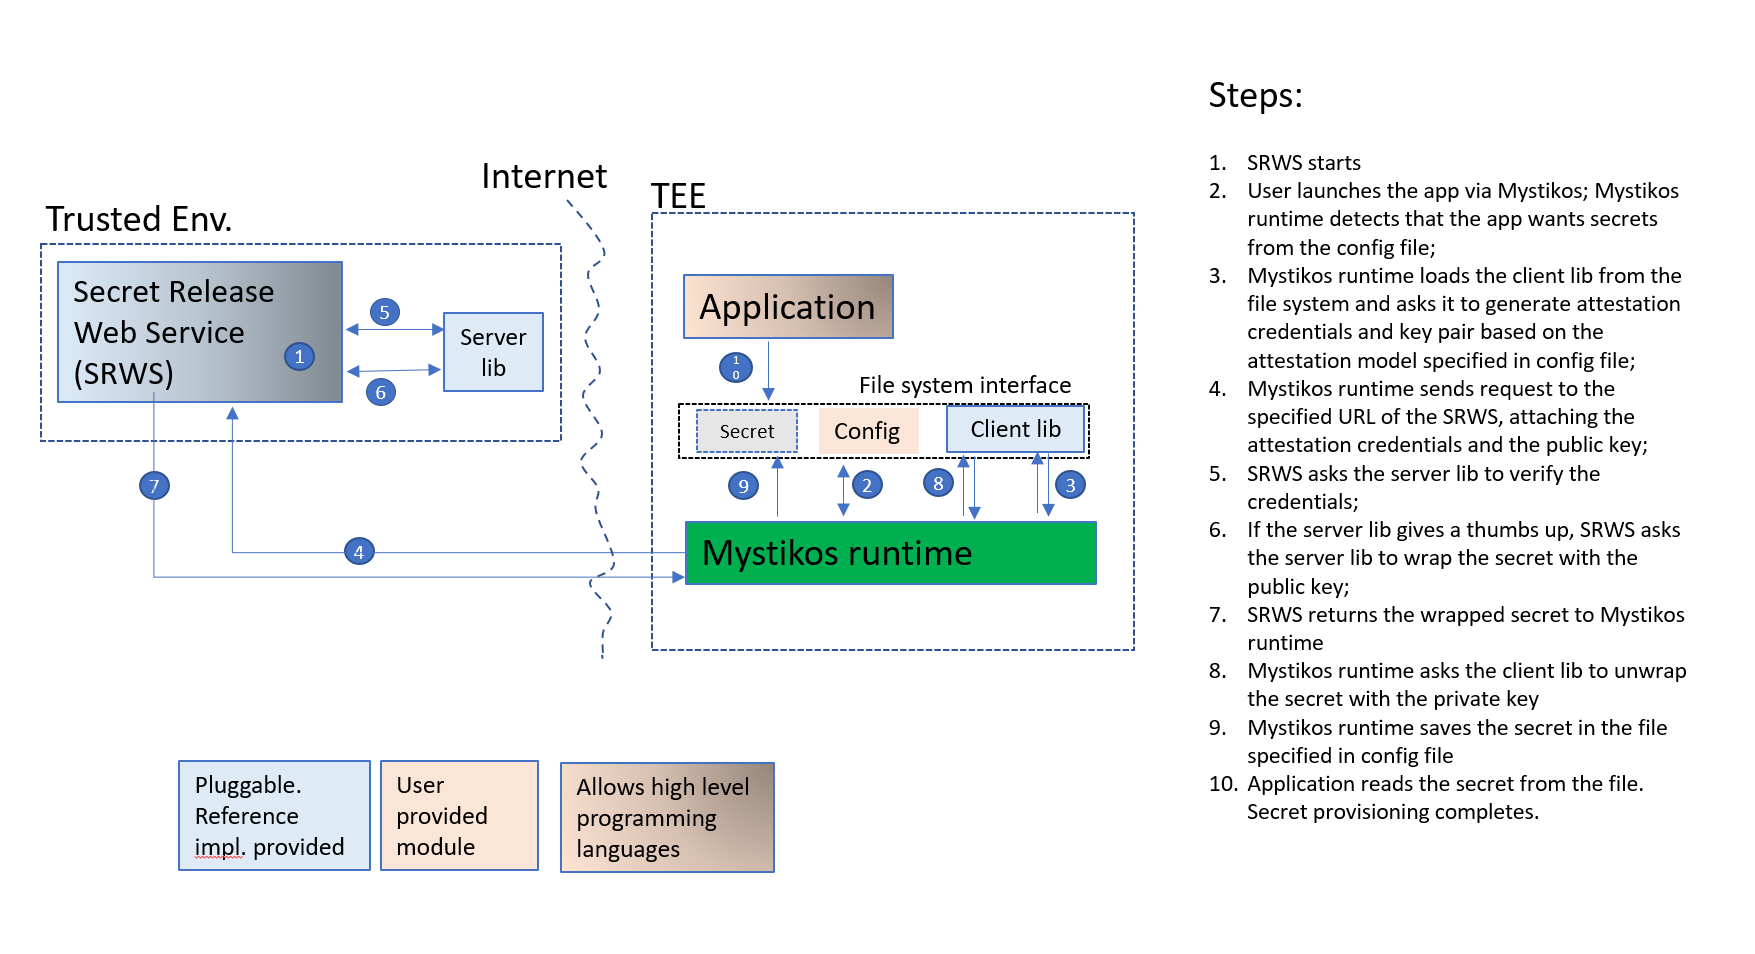
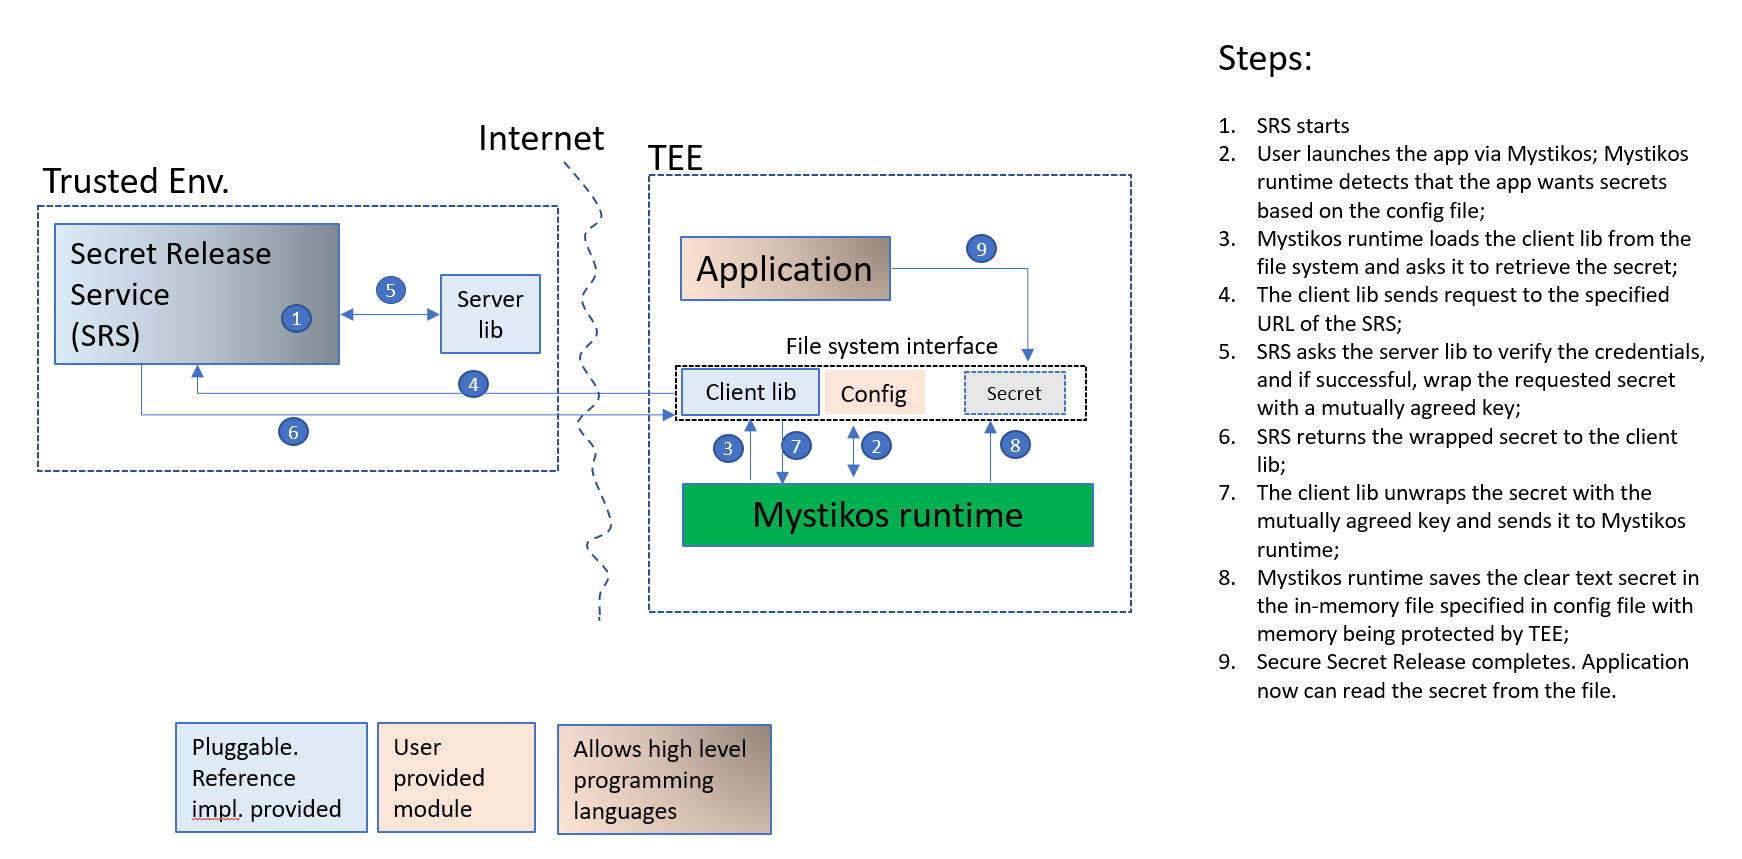
Update the design based on findings from PoC

diff --git a/doc/design/secret-provisioning.md b/doc/design/secret-provisioning.md
@@ -11,158 +11,162 @@ M-HSM, or a service run by the user in a locked down and trusted
 environment.
 
 This design document describes the process of provisioning a pre-generated
-secret into an application running with Mystikos in 5 aspects as below. How
-the secret is generated is outside the scope of this document. We will
+secret into an application running with Mystikos in 4 components as below.
+How the secret is generated is outside the scope of this document. We will
 likely revise the design when gaps are found in a PoC.
 
-1. **the user interface**: how does Mystikos allow users to specify the
-secrets they want in their applications?
-1. **the client library**: how does Mystikos provide a reference secret
-provisioning client library and how can users plug in an alternative library.
-1. **the server library**: how does Mystikos provide a reference secret
-provisioning server library and how can users plug in an alternative library.
-1. **the secret release service**: how does the secret holder use the
-server library for secure release of secrets.
-1. **the attestation model**: the evidences and the verification of
-such evidences agreed by both the client and the server.
+1. **the user interface**
+1. **the client library**
+1. **the server library**
+1. **the Secret Release Service (SRS)**
+
+Users are responsible for:
+
+1. Run their own Secret Release Service, or utilize an existing key vault service
+such as Azure Managed HSM;
+1. Develop/choose a pair of client lib and server lib that satisfies the security
+requirements. We provide reference implementation of these libraries that can be
+reused/customized for secret provisioning. We also provide a client library
+for Azure Managed HSM service;
+1. While creating self-contained appdir and rootfs for the application with
+`myst-appbuilder`, ensure the client library (and whatever libraries it depends on)
+are placed on a default library path, "/lib/" for example;
+1. Link SRS service with the server lib (not required if using Azure Managed HSM);
+1. Config Mystikos application (see "The user interface" section).
+
+Mystikos is responsible for:
+
+1. Perform secret provisioning during boot time if the `secrets` section is present
+in config.json;
+1. If secret provisioning is successful, write the secret to the file at `LocalPath`.
+The application can access the secret by reading the file;
+1. If secret provisioning failed, the Mystikos runtime still boots up and launches
+the application, but reports a failure to the uer.
 
 ## The user interface
 
 Users who wish to provision secrets to their applications running with
-Mystikos can add the following section to config.json:
+Mystikos should add the following section to config.json:
 
 ```json
 secrets: [
     # Secret 1
     {
-        "Name": <name of the secret>,
-        "AttestationModel": <a number between 1 to 3. See attestation models below>
-        "HolderURL": <URL to the secret release service>,
-        "Kid": <identifier of the key>,
-        "LocalPath": <Path to the file that will store the secret after its retrieval>,
-        "ClientLibPath": <Path to the client library>
+        "ID": <ID of the secret>,
+        "SrsURL": <URL to the Secret Release Service>,
+        "SrsApiVersion": <Optional. API Version of the SRS>,
+        "LocalPath": <Path of the file that stores the secret after its retrieval>,
+        "ClientLibrary": <Name of the client library>,
+        "Verbose": <Optional. Verboseness of the client library>
     },
     # Secret 2
     {
-        "Name": <name of the secret>,
-        "AttestationModel": <a number between 1 to 3. See attestation models below>
-        "HolderURL": <URL to the secret release service>,
-        "Kid": <identifier of the key>,
-        "LocalPath": <Path to the file that will store the secret after its retrieval>,
-        "ClientLibPath": <Path to the client library>
+        "ID": <ID of the secret>,
+        "SrsURL": <URL to the Secret Release Service>,
+        "SrsApiVersion": <Optional. API Version of the SRS>,
+        "LocalPath": <Path of the file that stores the secret after its retrieval>,
+        "ClientLibrary": <Name of the client library>,
+        "Verbose": <Optional. Verboseness of the client library>
     },
     ...
 ]
 ```
 
-Users are responsible for getting the dependent client library into the rootfs consumed
-by Mystikos. They are also responsible for linking with the corresponding server library
-in their services that release the secrets.
-
-## Attestation models
-
-At present, we consider 3 attestation models, from 1 to 3, that can be adopted by the
-client library while it generates attestation evidences, and by the server library
-when it verifies such evidences. Higher number indicates more abstraction in the
-attestation model.
-
-* **model 1**: The client generates a key pair, and an attestation report which
-includes the hash of the public key. The public key (but not the private key)
-and the attestation report are sent to the server. The server will verify the report's
-validity, verify the public key hash, and consider the TEE identity while
-deciding whether to release the secret or not.
-
-* **model 2**: The client generates a self-signed x509 certificate with
-an embedded attestation report which includes the hash of the public key.
-The certificate is sent to the server. The server will verify the
-report's validity, verify the public key hash, and consider the TEE
-identity while deciding whether to release the secret or not.
-
-* **model 3**: The client generates attestation evidences necessary to obtain
-a token from an attestation service, such as MAA. The token is sent to the
-server. The server will verify the validity of the token, and verify various
-claims within the token, including but not limited to public key and TEE
-identity, while deciding whether to release the secret or not.
-
-The reference implementation will use SGX report for attestation purposes. This
-does not limit users from providing their own client/server libraries that
-take advantage of attestation capabilities provided by other TEE platforms such
-as AMD SNP.
-
 ## The client library
 
-Mystikos will provide a reference implementation of the client library
-that exposes the following APIs to be called by Mystikos runtime while
-performing secret provisioning:
+We will provide: 1) a reference implementation of the client library;
+and 2) a client library for MHSM that exposes the following APIs:
 
-* `generate_attestation_evidence_with_keys` (for attestation model 1)
-* `generate_x509_cert_with_attestation_extension` (for attestation model 2)
-* `generate_attestation_service_token` (for attestation model 3)
-* `unwrap_secret` (for all attestation models)
+```c
 
-A client library could choose to implement only 1 or 2 `generate_xxx` functions
-for the specific attestation models supported on the server side. For example,
-the client library we provide for Azure M-HSM only implements
-`generate_attestation_service_token` (attestation model 3)
-because that's the only model M-HSM service supports.
+typedef struct _releasedSecret
+{
+    uint32_t schemaVersion; /* schema version of this structure */
+    char* id;               /* ID of the secret */
+    char* category;         /* key/cert/etc. */
+    char* type;             /* RSA/EC/AES/etc. */
+    char* description;      /* optional desc. from the secret service */
+    uint8_t* data;          /* the secret as a binary blob */
+    size_t length;          /* the length of the blob */
+} ReleasedSecret;
 
-The reference implementation provided by Mystikos will support all 3
-attestation models relying on the extended syscalls offered by Mystikos
-runtime. However, it only supports the minimum requirement for
-a secret provisioning process. Any additional security enhancements, such as
-using nonce or signing and verifying the response from the server could be
-implemented in custom client/server libraries as long as the enhancement
-is agreed on by both the client and the server, and the implementation
-fulfills the same set of APIs.
+/// Set the verbose level of the client library
+int ssr_client_set_verbose(unsigned level);
 
-Users can plug in their own client library by including the library in rootfs
-and providing the corresponding `ClientLibPath` in config.json.
+/// Initialize the client library
+int ssr_client_init(void);
+
+/// Retrieve a secret from the SRS service, given the
+/// secret ID, the service address, the API version
+/// of the service.
+///
+/// If successful, the function returns 0 and the secret
+/// is written into the structure **secret**. Returns
+/// an error code otherwise.
+int ssr_client_get_secret(
+    const char* srs_addr,
+    const char* api_version,
+    const char* id,
+    ReleasedSecret* secret);
+
+/// Free the contents of the release secret, but not the
+/// **secret** pointer itself.
+void ssr_client_free_secret(ReleasedSecret* secret);
+
+/// Tear down the client library.
+void ssr_client_terminate(void);
+```
+
+Users can plug in their own client library, provided the library implements
+the above API surface, by including the library in a default library path
+of rootfs and specifying the corresponding `ClientLibrary` in config.json.
 
 The client library is expected to be written in C/C++.
 
 ## The server library
 
-Mystikos will provide a reference implementation of the server library
-that exposes the following APIs to be called by the service that releases the
-secrets:
+We will provide a reference implementation of the server library
+that exposes the following APIs to be called by the reference
+implementation of the SRS service:
 
-* `verify_attestation_evidence_with_key` (for attestation model 1)
-* `verify_x509_cert_with_attestation_extension` (for attestation model 2)
-* `verify_attestation_service_token` (for attestation model 3)
-* `wrap_secret` (for all attestation models)
+```c
 
-A server library could choose implement only 1 or 2 `verify_xxx` functions above for the
-attestation models it supports. In `wrap_secret`, our reference implementation
-just encrypts the secret with the public key. A more complex implementation could add
-signing, the allowed operations on the released secret, or include the original request
-parameters in the response as long as the corresponding client library implements
-`unwrap_secret` accordingly.
+/// Set the verbose level of the server library
+int ssr_server_set_verbose(unsigned level);
 
-How does the server lib verify the attestation report is a contract between the
-client lib and the server lib. For the attestation report generated by our reference
-client lib implementation, the SGX report can be verified using either:
+/// Initialize the server library
+int ssr_server_init(void);
 
-1. Open Enclave host verify library;
-1. the extended syscalls of Mystikos if the secret release service runs inside
-Mystikos;
-1. the MAA service.
+/// Validate credentials from the client. If valid,
+/// wrap the secret with a key agreed on by both the client
+/// lib and the server lib. The wrapped secret is written
+/// into the **wrapped_secret_blob**, with its length
+/// written into **wrapped_secret_blob_size**.
+int ssr_server_validate_and_release_secret(
+    const uint8_t* credential,
+    size_t credential_size,
+    uint64_t nonce,
+    uint8_t **wrapped_secret_blob,
+    size_t * wrapped_secret_blob_size);
 
-We will probably implement the simplest one in the reference implementation.
+/// Tear down the server library.
+void ssr_server_terminate(void);
+```
 
-The server library is preferably to be written in C/C++ if it depends on the OE library
-or the Mystikos extended syscalls.
+How does the server lib verify the credential and wrap the secret is a
+contract between the client lib and the server lib.
 
-## The Secret Release Web Service
+## The Secret Release Service
 
-The Secret Release Web Service (SRWS) could be run in a trusted environment.
+The Secret Release Service (SRS) could be run in a trusted environment.
 We recommend, but don't mandate, it to be run in a TEE. That is, we encourage
-users to run SRWS with Mystikos. But you could run it on a plain Linux or Windows
+users to run SRS with Mystikos. But you could run it on a plain Linux or Windows
 server as long as you have confidence in the measures that safeguard the server.
 
-For testing purpose, Mystikos will provide a simple web service that links with
+For testing purpose, we will provide a simple web service that links with
 the reference implementation of the server library and performs secret release.
 
-The Secret Release Web Service can be implemented in any programming language.
+The Secret Release Service can be implemented in any programming language.
 
 ## Putting everything together
 
